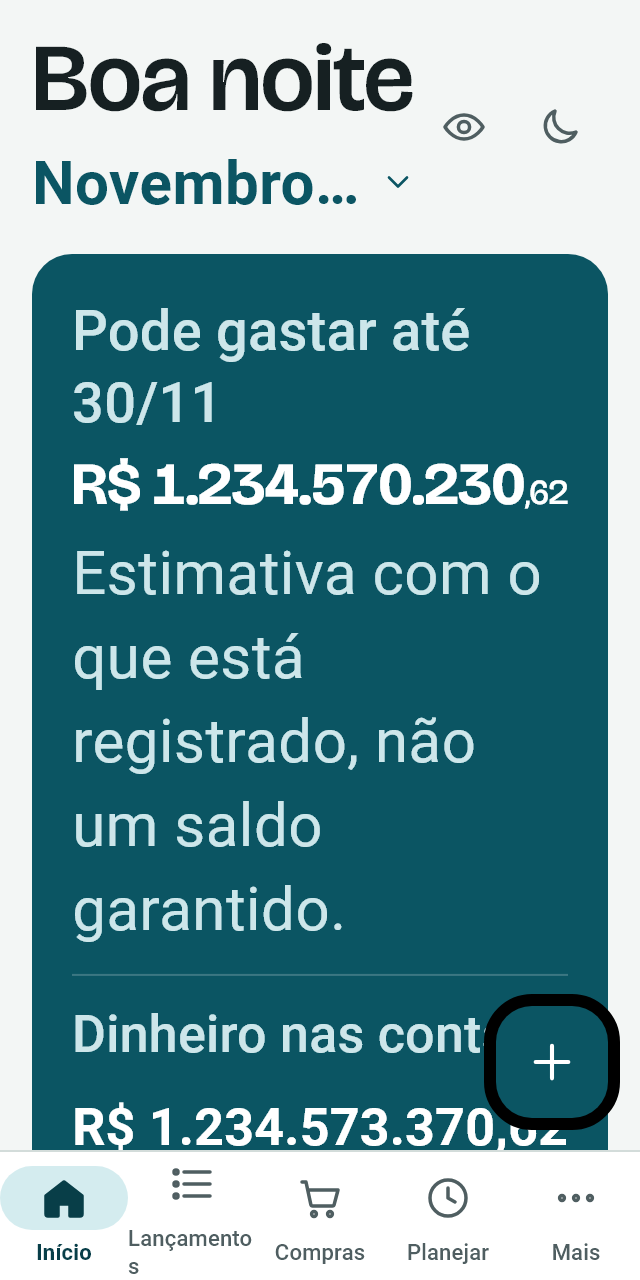
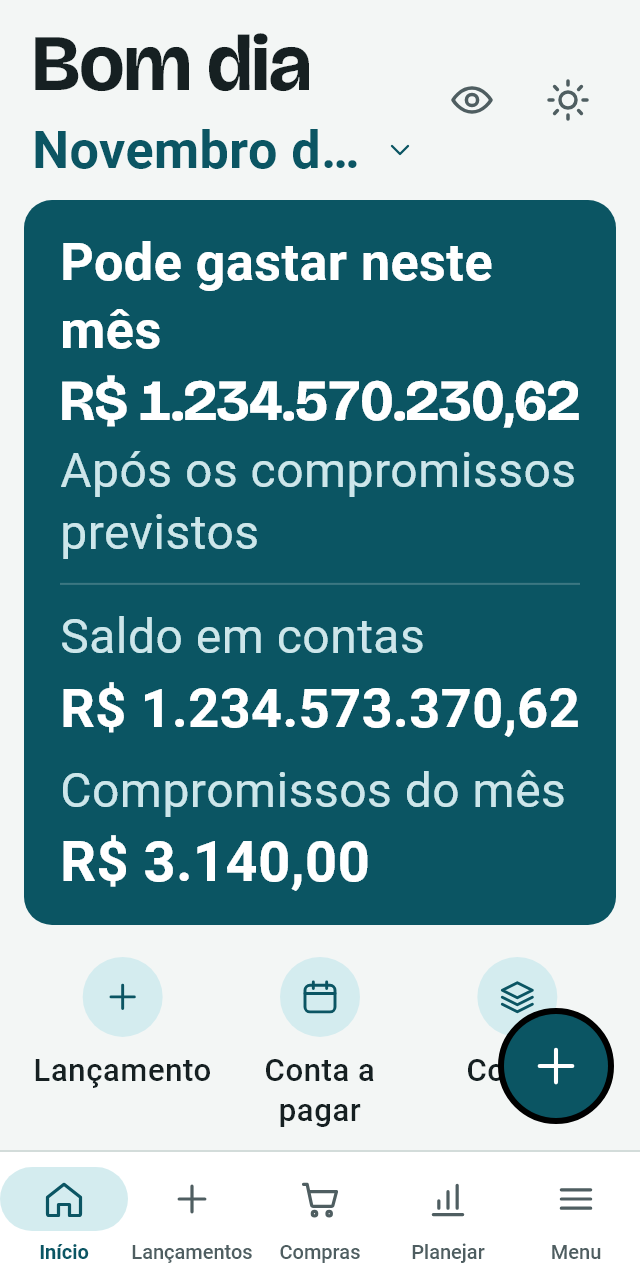
docs: identidade em todo o app, categorias, navegação e validação
Checkpoint, contagem real da suíte (359), homologação da rodada no
emulador, seção de design system e capturas das telas novas.

diff --git a/docs/flutter-migration/09-TESTES.md b/docs/flutter-migration/09-TESTES.md
@@ -6,18 +6,18 @@ Suíte: `apps/serenacash_flutter/test` + fixtures TS→Dart em `docs/flutter-mig
 
 | Resultado | Qtde |
 |---|---|
-| Aprovados | 349 |
+| Aprovados | 359 |
 | Ignorados (`skip`) | 0 |
 | Com falha | 0 |
-| **Total executado** | **349** |
+| **Total executado** | **359** |
 
-Comando: `flutter test` em `apps/serenacash_flutter` (saída final `+349: All tests passed!`). As referências antigas a 317 e 320 testes ficaram desatualizadas; o número cresceu com os testes de PIN, lembretes, backup de Compras, regressões da homologação e da nova tela inicial.
+Comando: `flutter test` em `apps/serenacash_flutter` (saída final `+359: All tests passed!`). As referências antigas a 317, 320 e 349 testes ficaram desatualizadas; o número cresceu com os testes de PIN, lembretes, backup de Compras, regressões da homologação, da tela inicial, de categorias e do tour de telas.
 
 | Camada | Local | O que cobre | Aprovados | Ignorados | Falhas |
 |---|---|---|---|---|---|
 | Domínio (equivalência e regras) | `test/domain/*` | 22 fixtures / 272 casos TS reproduzidos sem divergência monetária + invariantes (estorno, erros, arredondamento); `regressions_test.dart`: resultado do dia do calendário, ranking do ano limitado ao mês corrente, saudação por horário, plurais e rótulos do resumo de importação | 288 | 0 | 0 |
 | Persistência e segurança | `test/data/*` | esquema/índices/FK/CHECK, round-trip, idempotência, exclusão lógica, anexos com hash, stream, prefs, compras, SQLCipher (chave errada falha, arquivo não é SQLite em claro), PIN Argon2id, backup AES-GCM (adulteração), serviço de backup (v1, cifrado, legado, erros sem efeito), mapeamento RevenueCat; `backup_shopping_test.dart`: Compras no backup (ida e volta, substituição, backup antigo sem Compras, seção malformada aborta) | 33 | 0 | 0 |
-| App (widget/fluxo) | `test/app/*` | app real com banco em memória: onboarding → pode gastar → lançamento → lista → tema escuro; 24 widgets; privacidade; contas → cartão → compra parcelada → fatura; orçamento/meta/empréstimo/relatórios; lista → sessão → confirmação de finalização → despesa; leitura simulada de código/etiqueta; histórico e anual; `pin_lock_test.dart` (definir PIN, tela de bloqueio, PIN errado e depois o correto); `reminders_host_test.dart` (toque no lembrete com app aberto e em abertura a frio, lançamento inexistente, reagendamento); `regressions_flow_test.dart` (um único aviso de desfazer, "Cancelar" sem corte, cores com nome, senha oculta); `home_redesign_test.dart` (tela inicial: primeiro acesso sem valor inventado, conta sem movimentações, estado com dados, claro/escuro, valores ocultos, ações rápidas e período, tela estreita com fonte a 200%) | 25 | 0 | 0 |
+| App (widget/fluxo) | `test/app/*` | app real com banco em memória: onboarding → pode gastar → lançamento → lista → tema escuro; 24 widgets; privacidade; contas → cartão → compra parcelada → fatura; orçamento/meta/empréstimo/relatórios; lista → sessão → confirmação de finalização → despesa; leitura simulada de código/etiqueta; histórico e anual; `pin_lock_test.dart`; `reminders_host_test.dart`; `regressions_flow_test.dart` (desfazer, "Cancelar" sem corte, cores com nome, senha oculta, onboarding: voltar um passo e configuração interrompida sem duplicar conta); `home_redesign_test.dart` (primeiro acesso, conta sem movimentações, com dados, claro/escuro, valores ocultos, ações rápidas e período, tela estreita com fonte a 200%); `categories_flow_test.dart` (regras de hierarquia; excluir movendo também os lançamentos excluídos; criar com ícone e cor, subcategoria, editar, arquivar pelo menu lateral; criar categoria e subcategoria durante o lançamento sem perder o que foi digitado; excluir pedindo o destino; totais sem dupla contagem e filtro por categoria); `tour_test.dart` (20 telas com dados em claro, escuro e em 320 pt com texto a 150%) | 35 | 0 | 0 |
 | Performance | `test/perf/perf_test.dart` | painel com 5.000 lançamentos, busca, banco | 3 | 0 | 0 |
 
 ## Gates (todos sem `|| true`)
@@ -34,7 +34,7 @@ dart run build_runner build --delete-conflicting-outputs && flutter gen-l10n
 dart format --set-exit-if-changed lib test && flutter analyze --fatal-infos && flutter test
 ```
 
-Resultado em 05/11/2026: `dart format` → 148 arquivos, 0 alterações; `flutter analyze --fatal-infos` → 0 issues; `flutter test` → 349 aprovados, 0 ignorados, 0 falhas.
+Resultado em 05/11/2026: `dart format` → 155 arquivos, 0 alterações; `flutter analyze --fatal-infos` → 0 issues; `flutter test` → 359 aprovados, 0 ignorados, 0 falhas.
 
 ## Capturas de tela
 

diff --git a/docs/flutter-migration/CHECKPOINT.md b/docs/flutter-migration/CHECKPOINT.md
@@ -53,8 +53,21 @@ issues, `dart format` sem alterações. Detalhes e divergências em `02-EQUIVALE
 - Personalização da tela inicial (ordem, visibilidade, modelos, período, contas) preservada; nenhuma regra financeira alterada.
 - Gates: `dart format` 0 alterações, `flutter analyze --fatal-infos` 0 issues, `flutter test` 349 aprovados, 0 ignorados, 0 falhas (`09-TESTES.md`).
 
+## Identidade em todo o app, categorias e navegação (05/11/2026)
+- Tela inicial refeita na identidade do mockup de referência (escala compacta, painel "Pode gastar neste mês" com "Saldo em contas" e "Compromissos do mês", ações Lançamento / Conta a pagar / Contas, linhas densas com ícone da categoria, botão "+" circular). Nome opcional na saudação (Configurações > Perfil).
+- A mesma identidade foi levada ao tema e aos componentes compartilhados (tipografia, cartão, linha de lista, botões, campos, chips, diálogos, folhas, avisos), e com isso a todas as telas. `DESIGN.md` e `04-UI_DESIGN_SYSTEM.md` atualizados.
+- Categorias e subcategorias: regras no domínio (`lib/domain/categories/`), biblioteca de ícones com busca, paleta sem roxo, criar/editar/arquivar/reativar, excluir com reclassificação, seletor no lançamento com criação na hora, filtro por categoria nos lançamentos, detalhe por subcategoria no relatório. Sem mudança de esquema do banco.
+- Navegação: barra inferior com os quatro destinos frequentes e a entrada do menu lateral; a tela "Mais" deixou de existir. O botão "+" abre a folha "Adicionar".
+- Contas a receber na tela "A pagar e a receber".
+- Achados da validação no emulador corrigidos: onboarding duplicava a conta quando interrompido e o voltar saía do app; botões únicos (ícone, cor, chip, linha) perdiam o nó de acessibilidade.
+- Gates: `dart format` 0 alterações, `flutter analyze --fatal-infos` 0 issues, `flutter test` 359 aprovados, 0 ignorados, 0 falhas.
+- Nenhuma regra financeira foi alterada. A ordem padrão do domínio para a tela inicial continua igual à fixture; quem nunca personalizou recebe a ordem do mockup (definida na camada de app).
+
 ## Pendências reais
 - iOS: sem macOS neste ambiente; ícone e abertura com a marca só foram feitos no Android.
+- TalkBack ligado não foi testado; os nós de acessibilidade foram conferidos pela árvore do sistema (uiautomator).
+- Final do cartão ("Final 4582" no mockup): o app não guarda esse dado; exigiria um campo novo e uma migração do banco.
+- Fora do escopo, por exigirem evolução própria: Open Finance, sincronização em nuvem, perfis, assistente de IA, edição em lote, lançamento em várias categorias, antecipar e reabrir fatura.
 - Aparelho físico: câmera/OCR, biometria e compras em sandbox continuam sem validação.
 - Lojas/RevenueCat, assinatura de release e política de privacidade publicada dependem do cliente.
 - Lembretes usam alarmes inexatos (podem atrasar até 1 h); alarmes exatos exigem permissão sujeita à política da loja.

diff --git a/docs/flutter-migration/10-HOMOLOGACAO.md b/docs/flutter-migration/10-HOMOLOGACAO.md
@@ -49,6 +49,25 @@ Com o relógio do emulador adiantado temporariamente e depois restaurado:
 - Com duas ou mais notificações o Android as agrupa; tocar no cabeçalho do grupo abre o app pela tela inicial (comportamento do sistema).
 - Contas criadas depois de ativar os lembretes são agendadas sozinhas.
 
+## Validação da identidade, das categorias e da navegação (05/11/2026)
+
+No mesmo emulador, com dados fictícios e o APK debug da branch:
+
+| Fluxo | Resultado |
+|---|---|
+| Onboarding até a tela inicial | Passou. Achado corrigido: fechar o app no meio da configuração e recomeçar criava a conta de novo (o saldo dobrava), e o voltar saía do app. |
+| Botão "+" → folha "Adicionar" → Despesa | Passou; a folha cobre a barra inferior. |
+| Seletor de categoria com busca; "Criar “Feiras”" a partir do nome buscado | Passou; o nome chega preenchido, e ao salvar a categoria volta selecionada com valor e descrição preservados. |
+| Cor e ícone por busca ("feira" → mercado) | Passou. Achado corrigido: com um único ícone no resultado o botão não existia para o leitor de tela. |
+| Subcategoria criada durante o lançamento | Passou; volta selecionada e a linha mostra "Feiras › Hortifruti". |
+| Menu lateral: grupos, seção atual, voltar fecha o menu, voltar da tela retorna à aba | Passou. |
+| Editar categoria e arquivar subcategoria | Passou; a arquivada vai para "Arquivadas" e o lançamento antigo continua com ela. |
+| Conta a receber: criar pela folha, ver em "A receber", marcar como recebida | Passou; o saldo foi de 5.294,10 para 13.494,10. |
+| Tema escuro e fonte do sistema a 130% | Passou, sem corte nem sobreposição. |
+| Logcat | 0 erros do Flutter e 0 quedas. |
+
+Não refeito nesta rodada: notificação real e toque nela (validado em 05/11 antes desta mudança; a rota do lançamento não mudou e os testes de `reminders_host_test.dart` continuam passando).
+
 ## Não coberto
 
 Biometria (emulador sem biometria), leitura real de código de barras e OCR de etiqueta, compras em sandbox e restauração de compras, importação de CSV e OFX, TalkBack ligado, aparelho físico e iOS.

diff --git a/docs/flutter-migration/04-UI_DESIGN_SYSTEM.md b/docs/flutter-migration/04-UI_DESIGN_SYSTEM.md
@@ -62,3 +62,18 @@ GoRouter com `StatefulShellRoute.indexedStack`: Início, Lançamentos, Compras, 
 ## Paridade com o RN
 
 Todas as telas do inventário de rotas (`01-AUDITORIA_ORIGEM.md` §1) existem em Flutter com o mesmo comportamento; o conteúdo textual foi movido para ARB (pt-BR e en) — 940 chaves.
+
+## Identidade em todo o app (05/11/2026)
+
+A tela inicial passou a definir a linguagem de todas as telas. O que mudou no código:
+
+- `lib/app/theme/tokens.dart`: uma escala compacta única em `Type` (headline 22, title 16, body 15, linha 14/12, valores 14 com algarismos tabulares, botão 15) e `Layout` (margem 12, preenchimento do cartão, quadro de ícone de 32).
+- `lib/app/theme/theme.dart`: botões com raio 10 e 48 px, cartões com raio 14, diálogo, folha, aviso, menu lateral e botão "+" circular.
+- `lib/ui/components/`: `SCard` (raio e preenchimento novos, parâmetro `radius`), `CardHeader` (link à direita), `ListRow` (linha densa, a mesma da tela inicial), `IconTile`, `RowDivider`/`dividedRows`, `SButton`, `SChip`, `Segmented`, `SScreen` (margem e título), `EmptyState`/`EmptyRow`, `Money` (papéis `heroFlat`, `section`, `dense`, sinal separado).
+- `lib/ui/icons.dart` e `lib/ui/category_icons.dart`: 40 ícones novos no mesmo traço e a biblioteca de ícones de categoria com palavras de busca; paleta de 13 cores sem roxo.
+- `lib/features/home/home_parts.dart`: só o que é próprio da tela inicial (cabeçalho, painel-resumo, ações rápidas, desenho do cartão, etiqueta de vencimento).
+- `lib/app/app_drawer.dart` e `lib/features/shared/add_sheet.dart`: menu lateral e folha "Adicionar".
+
+Acessibilidade: botões que podem aparecer sozinhos (ícone, cor, chip, linha tocável) declaram `container: true`; sem isso o Flutter funde a anotação com o nó vizinho e o botão deixa de ser anunciado.
+
+Capturas em `screenshots/` (`tour_*`, `categories_*`, `category_*`, `menu_light`, `transactions_light`, `home_*`).
